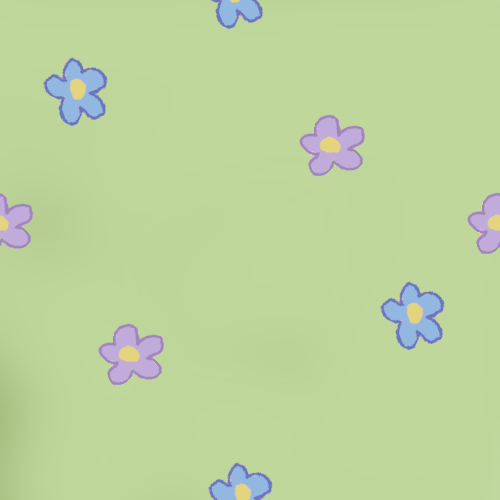
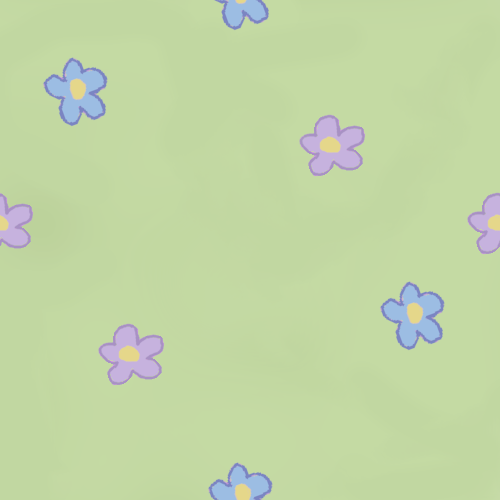
updated image background to look ok

Changed region(s): [[0.0, 0.75, 0.03, 1.0], [0.42, 0.0, 0.54, 0.06]]

diff --git a/index.html b/index.html
@@ -8,7 +8,7 @@
     </head>
     <style>
         body {
-            background-color: darkseagreen;
+            background-image: url('images/backpattern.png');
         }
 
         .columns {
